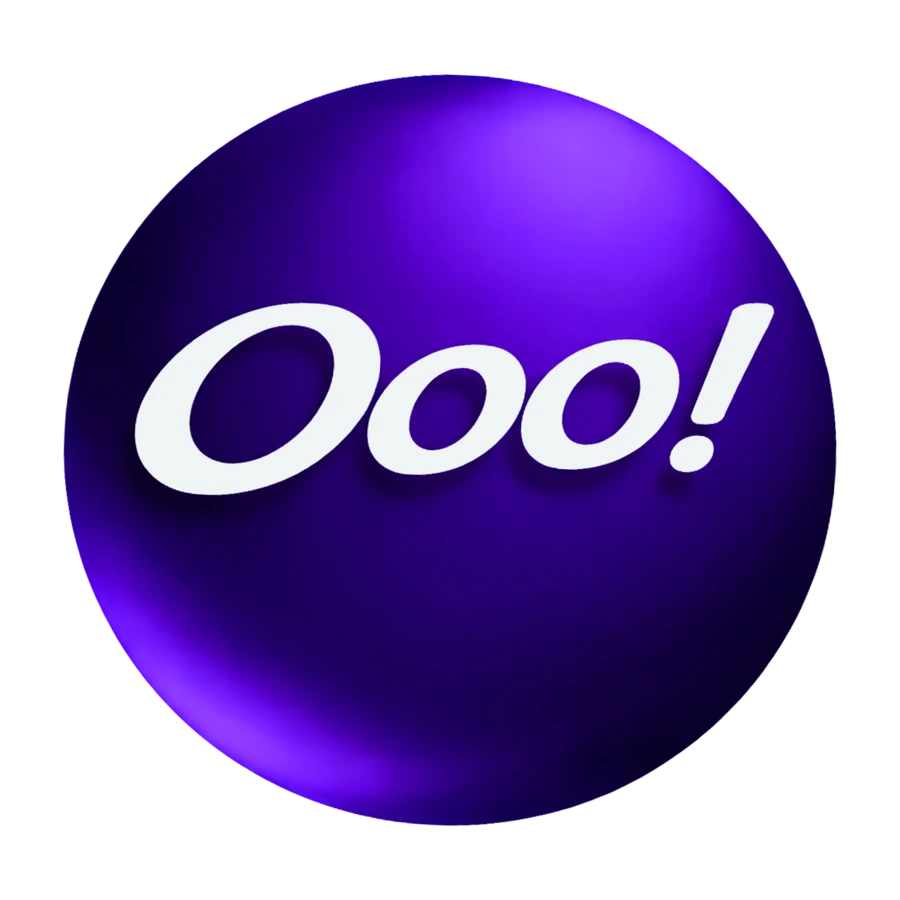
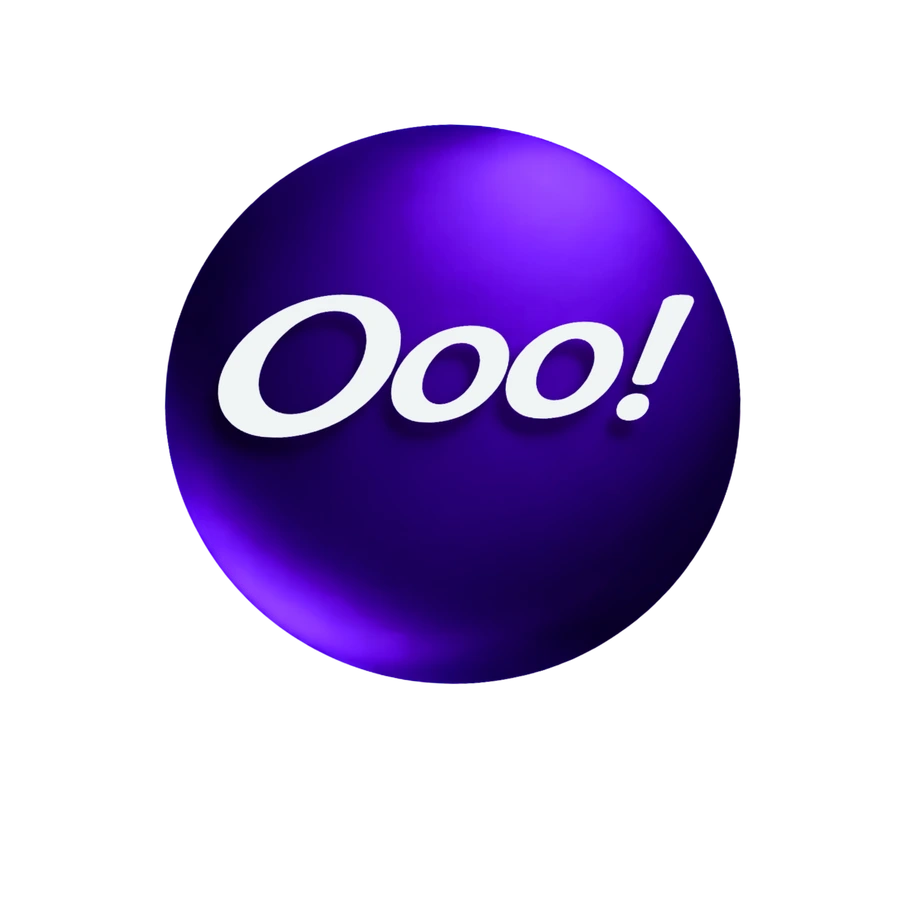
fix(hero): frame the orb as the master did, and keep its box square
The cut-out orb was cropped tight, so inside its 300px box it drew a third
larger than before and reached the bell beneath it in the stacked layout.
The cut now keeps the master's own framing (the orb body about 62% of the
square), so the orb is back at the size the hero was laid out for, with
42px of ground between its body and the bell at phone widths. 23KB.

Also: between 721px and about 900px the centre column is narrower than
300px and the fixed height drew the orb as an ellipse. The box now keeps a
1:1 aspect at whatever width the column allows.

diff --git a/src/styles/hero-top.css b/src/styles/hero-top.css
@@ -30,7 +30,10 @@
    the 5000px master): its glow and drop shadow are translucent, so it sits
    on whatever ground is behind it, on every browser and colour scheme */
 /* central focal point — enlarged from 230 so the orb anchors the hero */
-.ot-logo { width: 300px; height: 300px; display: inline-block; }
+/* the box is square whatever the column allows: between 721px and about
+   900px the centre column is narrower than 300px, and a fixed height drew
+   the orb as an ellipse */
+.ot-logo { width: 300px; max-width: 100%; height: auto; aspect-ratio: 1 / 1; display: inline-block; }
 
 /* locked 3-block layout: text-left / orb-center / sign-right */
 .ot-trio { display: grid; grid-template-columns: 1fr auto 1fr; align-items: center;
